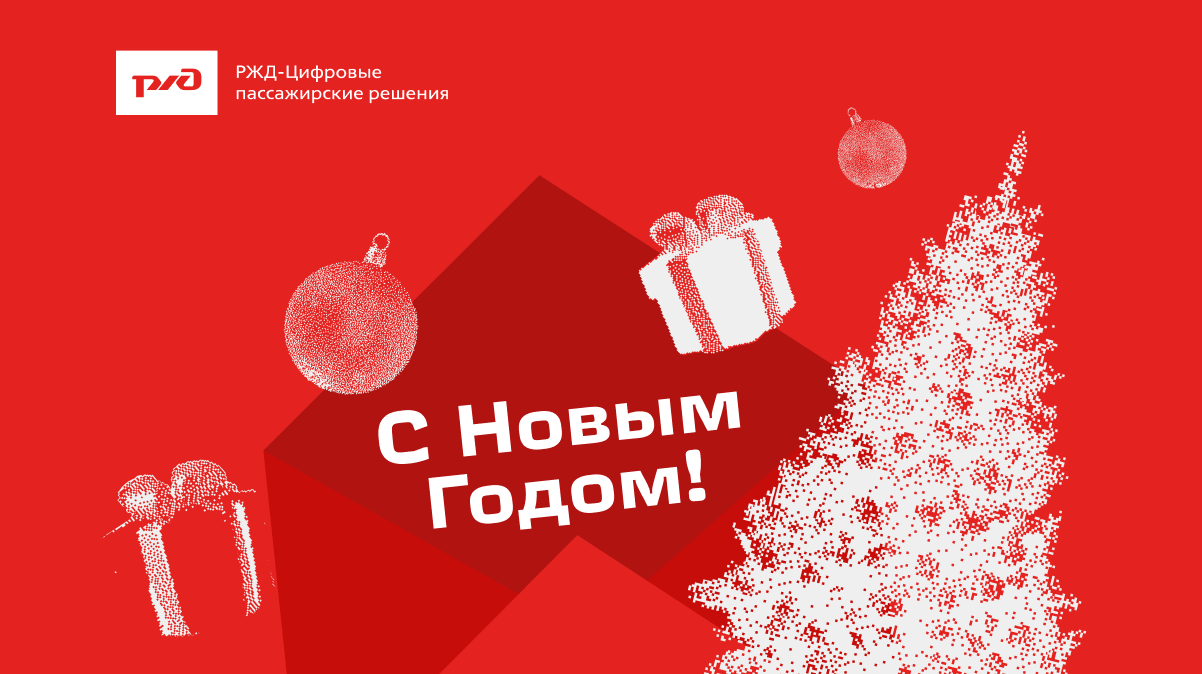
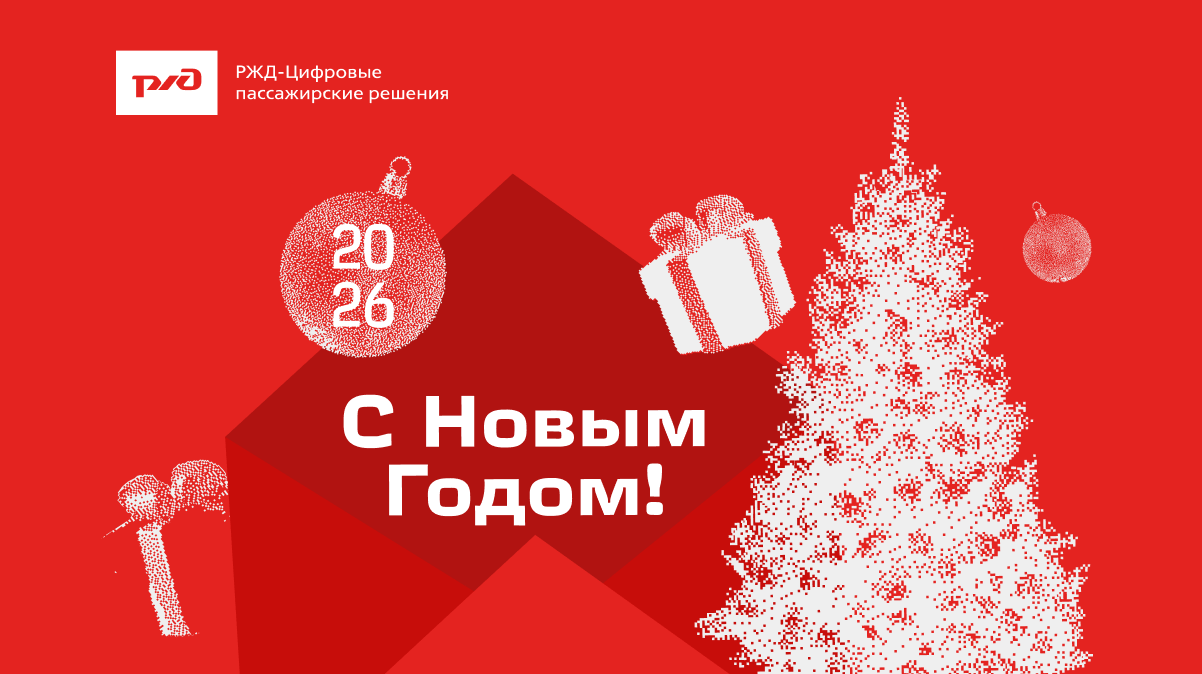
change rjd-4

Changed region(s): [[0.1847, 0.1558, 0.9235, 1.0]]

diff --git a/rjd-4/С новым годом.html b/rjd-4/С новым годом.html
@@ -1,9 +1,7 @@
-<!doctype html>
+<!DOCTYPE html>
 <html xmlns="http://www.w3.org/1999/xhtml" xmlns:v="urn:schemas-microsoft-com:vml" xmlns:o="urn:schemas-microsoft-com:office:office">
-
 <head>
-    <title>
-    </title>
+    <title>С новым годом</title>
     <!--[if !mso]><!-->
     <meta http-equiv="X-UA-Compatible" content="IE=edge">
     <!--<![endif]-->
@@ -13,21 +11,18 @@
         #outlook a {
             padding: 0;
         }
-
         body {
             margin: 0;
             padding: 0;
             -webkit-text-size-adjust: 100%;
             -ms-text-size-adjust: 100%;
         }
-
         table,
         td {
             border-collapse: collapse;
             mso-table-lspace: 0pt;
             mso-table-rspace: 0pt;
         }
-
         img {
             border: 0;
             height: auto;
@@ -36,7 +31,6 @@
             text-decoration: none;
             -ms-interpolation-mode: bicubic;
         }
-
         p {
             display: block;
             margin: 13px 0;
@@ -76,34 +70,57 @@
             table.mj-full-width-mobile {
                 width: 100% !important;
             }
-
             td.mj-full-width-mobile {
                 width: auto !important;
+            }
+            div.mj-outlook-group-fix {
+                border-top: 2px solid transparent !important;
             }
         }
     </style>
 </head>
-
 <body style="word-spacing:normal;background-color:#FFFFFF;">
-<div style="background-color: #E42320;max-width: 600px;margin: 0 auto;padding-bottom:32px;">
-    <!--[if mso | IE]><table align="center" border="0" cellpadding="0" cellspacing="0" class="" style="width:600px;" width="600" ><tr><td style="line-height:0px;font-size:0px;mso-line-height-rule:exactly;"><![endif]-->
-    <div style="margin:0px auto;max-width:600px;">
+<div style="background-color: #E42320;max-width: 600px;margin: 0 auto;padding-bottom:51px;">
+    <!--[if mso | IE]><table align="center" border="0" cellpadding="0" cellspacing="0" style="width:600px;" width="600"><tr><td style="line-height:0px;font-size:0px;mso-line-height-rule:exactly;"><![endif]-->
+    <div style="margin:0px auto;max-width:600px;" em="block">
         <table align="center" border="0" cellpadding="0" cellspacing="0" role="presentation" style="width:100%;">
-            <tbody>
             <tr>
                 <td style="direction:ltr;font-size:0px;padding:0;text-align:center;">
-                    <!--[if mso | IE]><table role="presentation" border="0" cellpadding="0" cellspacing="0"><tr><td class="" style="vertical-align:top;width:600px;" ><![endif]-->
+                    <!--[if mso | IE]><table role="presentation" border="0" cellpadding="0" cellspacing="0"><tr><td style="vertical-align:top;width:600px;"><![endif]-->
                     <div class="mj-column-per-100 mj-outlook-group-fix" style="font-size:0px;text-align:left;direction:ltr;display:inline-block;vertical-align:top;width:100%;">
                         <table border="0" cellpadding="0" cellspacing="0" role="presentation" style="vertical-align:top;" width="100%">
-                            <tbody>
                             <tr>
                                 <td align="center" style="font-size:0px;padding:0;word-break:break-word;">
                                     <table border="0" cellpadding="0" cellspacing="0" role="presentation" style="border-collapse:collapse;border-spacing:0px;">
-                                        <tbody>
                                         <tr>
                                             <td style="width:600px;">
-                                                <img alt="С новым годом!" height="auto" src="https://cp.unisender.com/ru/user_file?resource=images&user_id=5608985&name=rjd-4-hero.png" style="border:0;display:block;outline:none;text-decoration:none;height:auto;width:100%;font-size:13px;" width="600" />
+                                                <img alt="С новым годом!" height="auto" src="https://cp.unisender.com/en/v5/user-files?userId=7763070&resource=himg&disposition=inline&name=6n86xj8mcg47mgzmzguib5fay9pwuie37exxog1ngrnh6yiif831jzhg4jyqekeruoaos9ft34nkrjzu6djgfhkhwnctbtkq3trkhgur6kpee3rdinhwe3ifmb5z5r7d5dw1irk7zy7mdk4bfxtsf5rasjw" style="border:0;display:block;outline:none;text-decoration:none;height:auto;width:100%;font-size:13px;" width="600">
                                             </td>
+                                        </tr>
+                                    </table>
+                                </td>
+                            </tr>
+                        </table>
+                    </div>
+                    <!--[if mso | IE]></td></tr></table><![endif]-->
+                </td>
+            </tr>
+        </table>
+    </div>
+    <!--[if mso | IE]></td></tr></table><table align="center" border="0" cellpadding="0" cellspacing="0" style="width:486px;" width="486"><tr><td style="line-height:0px;font-size:0px;mso-line-height-rule:exactly;"><![endif]-->
+    <div style="margin:0px auto;max-width:486px;border-radius:10px;background:#FFF;" em="block">
+        <table align="center" border="0" cellpadding="0" cellspacing="0" role="presentation" style="width:100%;border-radius:10px;">
+            <tr>
+                <td align="center" vertical-align="middle" style="direction:ltr;font-size:0px;padding:15px 24px 15px 20px;">
+                    <!--[if mso | IE]><table role="presentation" border="0" cellpadding="0" cellspacing="0"><tr><td style="vertical-align:top;width:26px;"><![endif]-->
+                    <div class="mj-outlook-group-fix" style="font-size:0px;text-align:left;direction:ltr;display:inline-block;vertical-align:top;width:26px;">
+                        <table border="0" cellpadding="0" cellspacing="0" role="presentation" style="vertical-align:top;" width="100%">
+                            <tbody>
+                            <tr>
+                                <td style="font-size:0px;word-break:break-word;">
+                                    <table border="0" cellpadding="0" cellspacing="0" role="presentation" style="border-collapse:collapse;border-spacing:0px;">
+                                        <tbody>
+                                        <tr>
                                         </tr>
                                         </tbody>
                                     </table>
@@ -112,192 +129,98 @@
                             </tbody>
                         </table>
                     </div>
-                    <!--[if mso | IE]></td></tr></table><![endif]-->
-                </td>
-            </tr>
-            </tbody>
-        </table>
-    </div>
-    <!--[if mso | IE]></td></tr></table><table align="center" border="0" cellpadding="0" cellspacing="0" class="" style="width:486px;" width="486" ><tr><td style="line-height:0px;font-size:0px;mso-line-height-rule:exactly;"><![endif]-->
-    <div style="margin:0px auto;max-width:486px;border-radius:10px;background:#FFF;">
-        <table align="center" border="0" cellpadding="0" cellspacing="0" role="presentation" style="width:100%;border-radius:10px;">
-            <tbody>
-            <tr>
-                <td align="center" vertical-align="middle" style="direction:ltr;font-size:0px;padding:15px 21px 28px;">
-                    <!--[if mso | IE]><table role="presentation" border="0" cellpadding="0" cellspacing="0"><tr><td class="" style="vertical-align:top;width:100%;" ><![endif]-->
-                    <div class="mj-outlook-group-fix" style="font-size:0px;text-align:left;direction:ltr;display:inline-block;vertical-align:top;width:100%;">
+                    <!--[if mso | IE]></td><td style="vertical-align:top;max-width:416px;width:100%;"><![endif]-->
+                    <div class="mj-outlook-group-fix" style="font-size:0px;text-align:left;direction:ltr;display:inline-block;vertical-align:top;max-width:416px;width:100%;">
                         <table border="0" cellpadding="0" cellspacing="0" role="presentation" style="vertical-align:top;" width="100%">
-                            <tbody>
                             <tr>
-                                <td align="left" style="font-size:0px;word-break:break-word;padding-bottom:24px;">
+                                <td align="left" style="font-size:0px;word-break:break-word;padding-bottom:20px;">
                                     <div style="font-family: Arial, sans-serif;font-size:18px;font-weight:700;line-height:100%;text-align:left;color:#E42320;">Дорогие коллеги!</div>
                                 </td>
                             </tr>
-                            </tbody>
                         </table>
                     </div>
-                    <!--[if mso | IE]></td><td class="" style="vertical-align:top;width:27px;" ><![endif]-->
-                    <div class="mj-outlook-group-fix" style="font-size:0px;text-align:left;direction:ltr;display:inline-block;vertical-align:top;width:27px;">
+                    <!--[if mso | IE]></td><td style="vertical-align:top;width:100%;"><![endif]-->
+                    <div class="mj-outlook-group-fix" style="font-size:0px;text-align:left;direction:ltr;display:inline-block;vertical-align:top;width:100%;">
                         <table border="0" cellpadding="0" cellspacing="0" role="presentation" style="vertical-align:top;" width="100%">
-                            <tbody>
                             <tr>
                                 <td style="font-size:0px;word-break:break-word;">
                                     <table border="0" cellpadding="0" cellspacing="0" role="presentation" style="border-collapse:collapse;border-spacing:0px;">
-                                        <tbody>
                                         <tr>
-                                            <td style="width:15px;padding-bottom:10px;">
-                                                <img alt="Декоративная картинка" height="auto" src="https://cp.unisender.com/ru/user_file?resource=images&user_id=5608985&name=rjd-4-icon-1.png" style="border:0;display:block;outline:none;text-decoration:none;height:auto;width:100%;font-size:13px;" width="15" />
+                                            <td style="width:420px;">
+                                                <img alt="Уходящий 2025 год был насыщенным, и мы рады, что прошли этот путь вместе с вами!" height="auto" src="https://cp.unisender.com/ru/user_file?resource=images&user_id=5608985&name=rjd-4-content-img-1.png" style="border:0;display:block;outline:none;text-decoration:none;height:auto;width:100%;font-size:13px;" width="420">
                                             </td>
                                         </tr>
-                                        </tbody>
                                     </table>
                                 </td>
                             </tr>
-                            </tbody>
                         </table>
                     </div>
-                    <!--[if mso | IE]></td><td class="" style="vertical-align:top;max-width:416px;width:100%;" ><![endif]-->
-                    <div class="mj-outlook-group-fix" style="font-size:0px;text-align:left;direction:ltr;display:inline-block;vertical-align:top;max-width:416px;width:100%;">
+                    <!--[if mso | IE]></td><td style="vertical-align:top;width:100%;"><![endif]-->
+                    <div class="mj-outlook-group-fix" style="font-size:0px;text-align:left;direction:ltr;display:inline-block;vertical-align:top;width:100%;">
                         <table border="0" cellpadding="0" cellspacing="0" role="presentation" style="vertical-align:top;" width="100%">
-                            <tbody>
                             <tr>
-                                <td align="left" style="font-size:0px;word-break:break-word;padding-bottom:33px;">
-                                    <div style="font-family: Arial, sans-serif;font-size:18px;font-weight:400;line-height:100%;text-align:left;color:#000000;max-width:400px;width:100%;">Уходящий год был насыщенным, и&nbsp;мы рады, что прошли этот путь вместе с&nbsp;вами.</div>
-                                </td>
-                            </tr>
-                            </tbody>
-                        </table>
-                    </div>
-                    <!--[if mso | IE]></td><td class="" style="vertical-align:top;width:27px;" ><![endif]-->
-                    <div class="mj-outlook-group-fix" style="font-size:0px;text-align:left;direction:ltr;display:inline-block;vertical-align:top;width:27px;">
-                        <table border="0" cellpadding="0" cellspacing="0" role="presentation" style="vertical-align:top;" width="100%">
-                            <tbody>
-                            <tr>
-                                <td style="font-size:0px;word-break:break-word;">
+                                <td style="font-size:0px;word-break:break-word;padding:12px 0;">
                                     <table border="0" cellpadding="0" cellspacing="0" role="presentation" style="border-collapse:collapse;border-spacing:0px;">
-                                        <tbody>
                                         <tr>
-                                            <td style="width:15px;padding-bottom:10px;">
-                                                <img alt="Декоративная картинка" height="auto" src="https://cp.unisender.com/ru/user_file?resource=images&user_id=5608985&name=rjd-4-icon-2.png" style="border:0;display:block;outline:none;text-decoration:none;height:auto;width:100%;font-size:13px;" width="15" />
+                                            <td style="width:439px;">
+                                                <img alt="Спасибо за ваше доверие, за смелые задачи, которые мы решали вместе, и за ту энергию, которую вы вкладываете в наше общее дело." height="auto" src="https://cp.unisender.com/ru/user_file?resource=images&user_id=5608985&name=rjd-4-content-img-2.png" style="border:0;display:block;outline:none;text-decoration:none;height:auto;width:100%;font-size:13px;" width="439">
                                             </td>
                                         </tr>
-                                        </tbody>
                                     </table>
                                 </td>
                             </tr>
-                            </tbody>
                         </table>
                     </div>
-                    <!--[if mso | IE]></td><td class="" style="vertical-align:top;max-width:416px;width:100%;" ><![endif]-->
-                    <div class="mj-outlook-group-fix" style="font-size:0px;text-align:left;direction:ltr;display:inline-block;vertical-align:top;max-width:416px;width:100%;">
+                    <!--[if mso | IE]></td><td style="vertical-align:top;width:100%;"><![endif]-->
+                    <div class="mj-outlook-group-fix" style="font-size:0px;text-align:left;direction:ltr;display:inline-block;vertical-align:top;width:100%;">
                         <table border="0" cellpadding="0" cellspacing="0" role="presentation" style="vertical-align:top;" width="100%">
-                            <tbody>
-                            <tr>
-                                <td align="left" style="font-size:0px;word-break:break-word;padding-bottom:33px;">
-                                    <div style="font-family: Arial, sans-serif;font-size:18px;font-weight:400;line-height:100%;text-align:left;color:#000000;max-width:385px;width:100%;">Спасибо за&nbsp;ваше доверие, за&nbsp;смелые задачи, которые мы решали вместе, и&nbsp;за&nbsp;ту энергию, которую вы вкладываете в&nbsp;наше общее дело.</div>
-                                </td>
-                            </tr>
-                            </tbody>
-                        </table>
-                    </div>
-                    <!--[if mso | IE]></td><td class="" style="vertical-align:top;width:27px;" ><![endif]-->
-                    <div class="mj-outlook-group-fix" style="font-size:0px;text-align:left;direction:ltr;display:inline-block;vertical-align:top;width:27px;">
-                        <table border="0" cellpadding="0" cellspacing="0" role="presentation" style="vertical-align:top;" width="100%">
-                            <tbody>
                             <tr>
                                 <td style="font-size:0px;word-break:break-word;">
                                     <table border="0" cellpadding="0" cellspacing="0" role="presentation" style="border-collapse:collapse;border-spacing:0px;">
-                                        <tbody>
                                         <tr>
-                                            <td style="width:15px;padding-bottom:7px;">
-                                                <img alt="Декоративная картинка" height="auto" src="https://cp.unisender.com/ru/user_file?resource=images&user_id=5608985&name=rjd-4-icon-3.png" style="border:0;display:block;outline:none;text-decoration:none;height:auto;width:100%;font-size:13px;" width="15" />
+                                            <td style="width:353px;">
+                                                <img alt="Пусть 2026 год начнется с приятных сюрпризов и добрых новостей." height="auto" src="https://cp.unisender.com/ru/user_file?resource=images&user_id=5608985&name=rjd-4-content-img-3.png" style="border:0;display:block;outline:none;text-decoration:none;height:auto;width:100%;font-size:13px;" width="353">
                                             </td>
                                         </tr>
-                                        </tbody>
                                     </table>
                                 </td>
                             </tr>
-                            </tbody>
                         </table>
                     </div>
-                    <!--[if mso | IE]></td><td class="" style="vertical-align:top;max-width:416px;width:100%;" ><![endif]-->
-                    <div class="mj-outlook-group-fix" style="font-size:0px;text-align:left;direction:ltr;display:inline-block;vertical-align:top;max-width:416px;width:100%;">
+                    <!--[if mso | IE]></td><td style="vertical-align:top;width:100%;"><![endif]-->
+                    <div class="mj-outlook-group-fix" style="font-size:0px;text-align:left;direction:ltr;display:inline-block;vertical-align:top;width:100%;">
                         <table border="0" cellpadding="0" cellspacing="0" role="presentation" style="vertical-align:top;" width="100%">
-                            <tbody>
                             <tr>
-                                <td align="left" style="font-size:0px;word-break:break-word;padding-bottom:33px;">
-                                    <div style="font-family: Arial, sans-serif;font-size:18px;font-weight:400;line-height:100%;text-align:left;color:#000000;">Пусть 2026&nbsp;год начнется с&nbsp;приятных сюрпризов и&nbsp;добрых новостей.</div>
-                                </td>
-                            </tr>
-                            </tbody>
-                        </table>
-                    </div>
-                    <!--[if mso | IE]></td><td class="" style="vertical-align:top;width:27px;" ><![endif]-->
-                    <div class="mj-outlook-group-fix" style="font-size:0px;text-align:left;direction:ltr;display:inline-block;vertical-align:top;width:27px;">
-                        <table border="0" cellpadding="0" cellspacing="0" role="presentation" style="vertical-align:top;" width="100%">
-                            <tbody>
-                            <tr>
-                                <td style="font-size:0px;word-break:break-word;">
+                                <td style="font-size:0px;word-break:break-word;padding:12px 0 18px;">
                                     <table border="0" cellpadding="0" cellspacing="0" role="presentation" style="border-collapse:collapse;border-spacing:0px;">
-                                        <tbody>
                                         <tr>
-                                            <td style="width:15px;padding-bottom:3px;">
-                                                <img alt="Декоративная картинка" height="auto" src="https://cp.unisender.com/ru/user_file?resource=images&user_id=5608985&name=rjd-4-icon-4.png" style="border:0;display:block;outline:none;text-decoration:none;height:auto;width:100%;font-size:13px;" width="15" />
+                                            <td style="width:391px;">
+                                                <img alt="Мы искренне желаем вам, чтобы работа приносила вдохновение, проекты реализовывались «на одном дыхании», а в домах всегда было тепло и уютно." height="auto" src="https://cp.unisender.com/ru/user_file?resource=images&user_id=5608985&name=rjd-4-content-img-4.png" style="border:0;display:block;outline:none;text-decoration:none;height:auto;width:100%;font-size:13px;" width="391">
                                             </td>
                                         </tr>
-                                        </tbody>
                                     </table>
                                 </td>
                             </tr>
-                            </tbody>
                         </table>
                     </div>
-                    <!--[if mso | IE]></td><td class="" style="vertical-align:top;max-width:416px;width:100%;" ><![endif]-->
-                    <div class="mj-outlook-group-fix" style="font-size:0px;text-align:left;direction:ltr;display:inline-block;vertical-align:top;max-width:416px;width:100%;">
+                    <!--[if mso | IE]></td><td style="vertical-align:top;width:100%;"><![endif]-->
+                    <div class="mj-outlook-group-fix" style="font-size:0px;text-align:left;direction:ltr;display:inline-block;vertical-align:top;width:100%;">
                         <table border="0" cellpadding="0" cellspacing="0" role="presentation" style="vertical-align:top;" width="100%">
-                            <tbody>
                             <tr>
-                                <td align="left" style="font-size:0px;word-break:break-word;padding-bottom:33px;">
-                                    <div style="font-family: Arial, sans-serif;font-size:18px;font-weight:400;line-height:100%;text-align:left;color:#000000;max-width:340px;width:100%;">Мы искренне желаем вам, чтобы работа приносила вдохновение, проекты реализовывались «на&nbsp;одном дыхании», а&nbsp;в&nbsp;домах всегда было тепло и&nbsp;уютно.</div>
-                                </td>
-                            </tr>
-                            </tbody>
-                        </table>
-                    </div>
-                    <!--[if mso | IE]></td><td class="" style="vertical-align:top;width:27px;" ><![endif]-->
-                    <div class="mj-outlook-group-fix" style="font-size:0px;text-align:left;direction:ltr;display:inline-block;vertical-align:top;width:27px;">
-                        <table border="0" cellpadding="0" cellspacing="0" role="presentation" style="vertical-align:top;" width="100%">
-                            <tbody>
-                            <tr>
-                                <td style="font-size:0px;word-break:break-word;">
+                                <td style="font-size:0px;word-break:break-word;padding-bottom:21px;">
                                     <table border="0" cellpadding="0" cellspacing="0" role="presentation" style="border-collapse:collapse;border-spacing:0px;">
-                                        <tbody>
                                         <tr>
-                                            <td style="width:15px;padding-top:3px;padding-bottom:3px;">
-                                                <img alt="Декоративная картинка" height="auto" src="https://cp.unisender.com/ru/user_file?resource=images&user_id=5608985&name=rjd-4-icon-5.png" style="border:0;display:block;outline:none;text-decoration:none;height:auto;width:100%;font-size:13px;" width="15" />
+                                            <td style="">
+                                                <img alt="Декоративная линия" height="auto" src="https://cp.unisender.com/ru/user_file?resource=images&user_id=5608985&name=rjd-2-border.png" style="border:0;display:block;outline:none;text-decoration:none;height:auto;width:100%;font-size:13px;" width="442">
                                             </td>
                                         </tr>
-                                        </tbody>
                                     </table>
                                 </td>
                             </tr>
-                            </tbody>
                         </table>
                     </div>
-                    <!--[if mso | IE]></td><td class="" style="vertical-align:top;max-width:416px;width:100%;" ><![endif]-->
-                    <div class="mj-outlook-group-fix" style="font-size:0px;text-align:left;direction:ltr;display:inline-block;vertical-align:top;max-width:416px;width:100%;">
-                        <table border="0" cellpadding="0" cellspacing="0" role="presentation" style="vertical-align:top;" width="100%">
-                            <tbody>
-                            <tr>
-                                <td align="left" style="font-size:0px;word-break:break-word;padding-bottom:33px;">
-                                    <div style="font-family: Arial, sans-serif;font-size:18px;font-weight:400;line-height:100%;text-align:left;color:#000000;max-width:314px;width:100%;">Желаем, чтобы этот год станет для вас временем больших открытий и&nbsp;уверенного движения вперед!</div>
-                                </td>
-                            </tr>
-                            </tbody>
-                        </table>
-                    </div>
-                    <!--[if mso | IE]></td><td class="" style="vertical-align:top;width:27px;" ><![endif]-->
-                    <div class="mj-outlook-group-fix" style="font-size:0px;text-align:left;direction:ltr;display:inline-block;vertical-align:top;width:27px;">
+                    <!--[if mso | IE]></td><td class="" style="vertical-align:top;width:28px;" ><![endif]-->
+                    <div class="mj-outlook-group-fix" style="font-size:0px;text-align:left;direction:ltr;display:inline-block;vertical-align:top;width:28px;">
                         <table border="0" cellpadding="0" cellspacing="0" role="presentation" style="vertical-align:top;" width="100%">
                             <tbody>
                             <tr>
@@ -313,26 +236,22 @@
                             </tbody>
                         </table>
                     </div>
-                    <!--[if mso | IE]></td><td class="" style="vertical-align:top;max-width:416px;width:100%;" ><![endif]-->
-                    <div class="mj-outlook-group-fix" style="font-size:0px;text-align:left;direction:ltr;display:inline-block;vertical-align:top;max-width:416px;width:100%;">
+                    <!--[if mso | IE]></td><td class="" style="vertical-align:top;max-width:414px;width:100%;" ><![endif]-->
+                    <div class="mj-outlook-group-fix" style="font-size:0px;text-align:left;direction:ltr;display:inline-block;vertical-align:top;max-width:414px;width:100%;">
                         <table border="0" cellpadding="0" cellspacing="0" role="presentation" style="vertical-align:top;" width="100%">
-                            <tbody>
                             <tr>
                                 <td align="left" style="font-size:0px;word-break:break-word;">
-                                    <div style="font-family: Arial, sans-serif;font-size:18px;font-weight:400;line-height:100%;text-align:left;color:#000000;">Ваша команда<br/>«РЖД-Цифровые пассажирские решения»</div>
+                                    <div style="font-family: Arial, sans-serif;font-style:italic;font-size:18px;font-weight:400;line-height:100%;text-align:left;color:#7E7E7E;">В новогоднем настроении, команда <br>«РЖД-Цифровые пассажирские решения»</div>
                                 </td>
                             </tr>
-                            </tbody>
                         </table>
                     </div>
                     <!--[if mso | IE]></td></tr></table><![endif]-->
                 </td>
             </tr>
-            </tbody>
         </table>
     </div>
     <!--[if mso | IE]></td></tr></table><![endif]-->
 </div>
 </body>
-
 </html>
